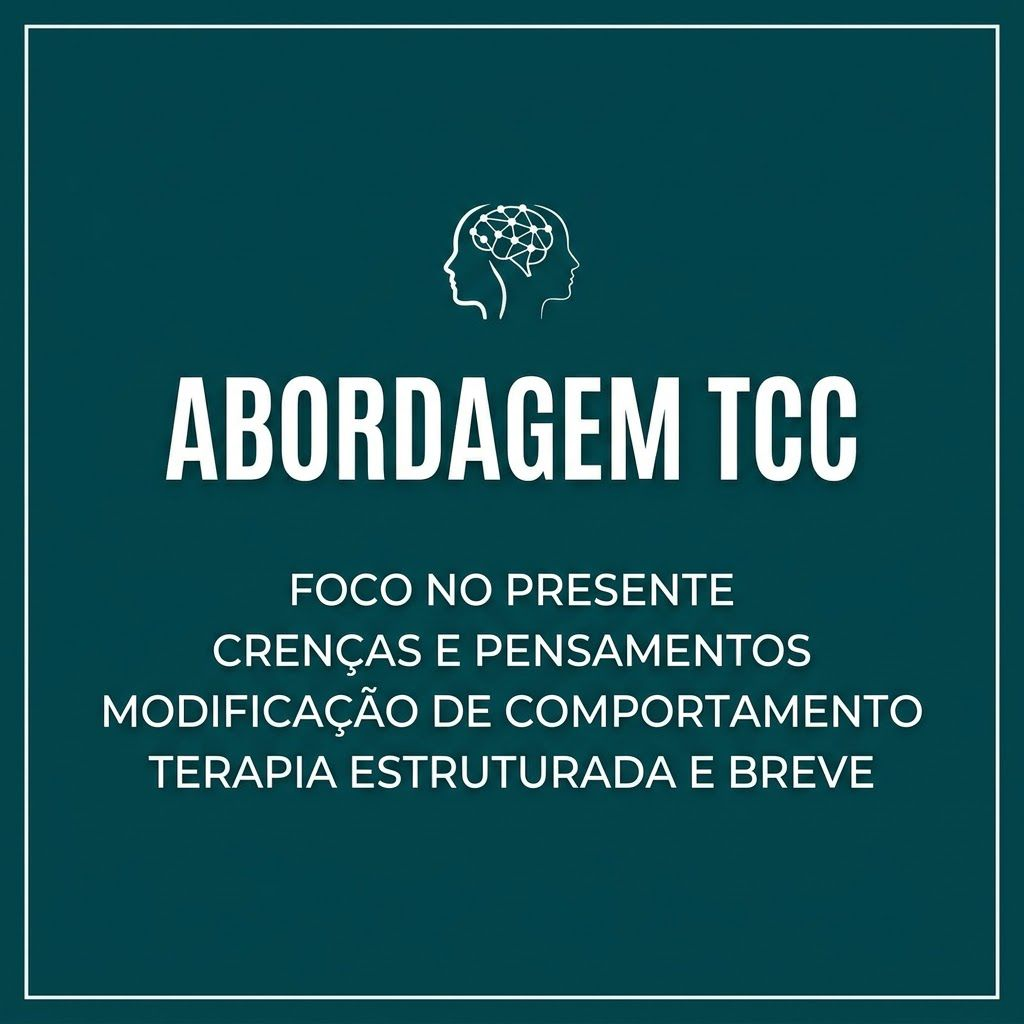
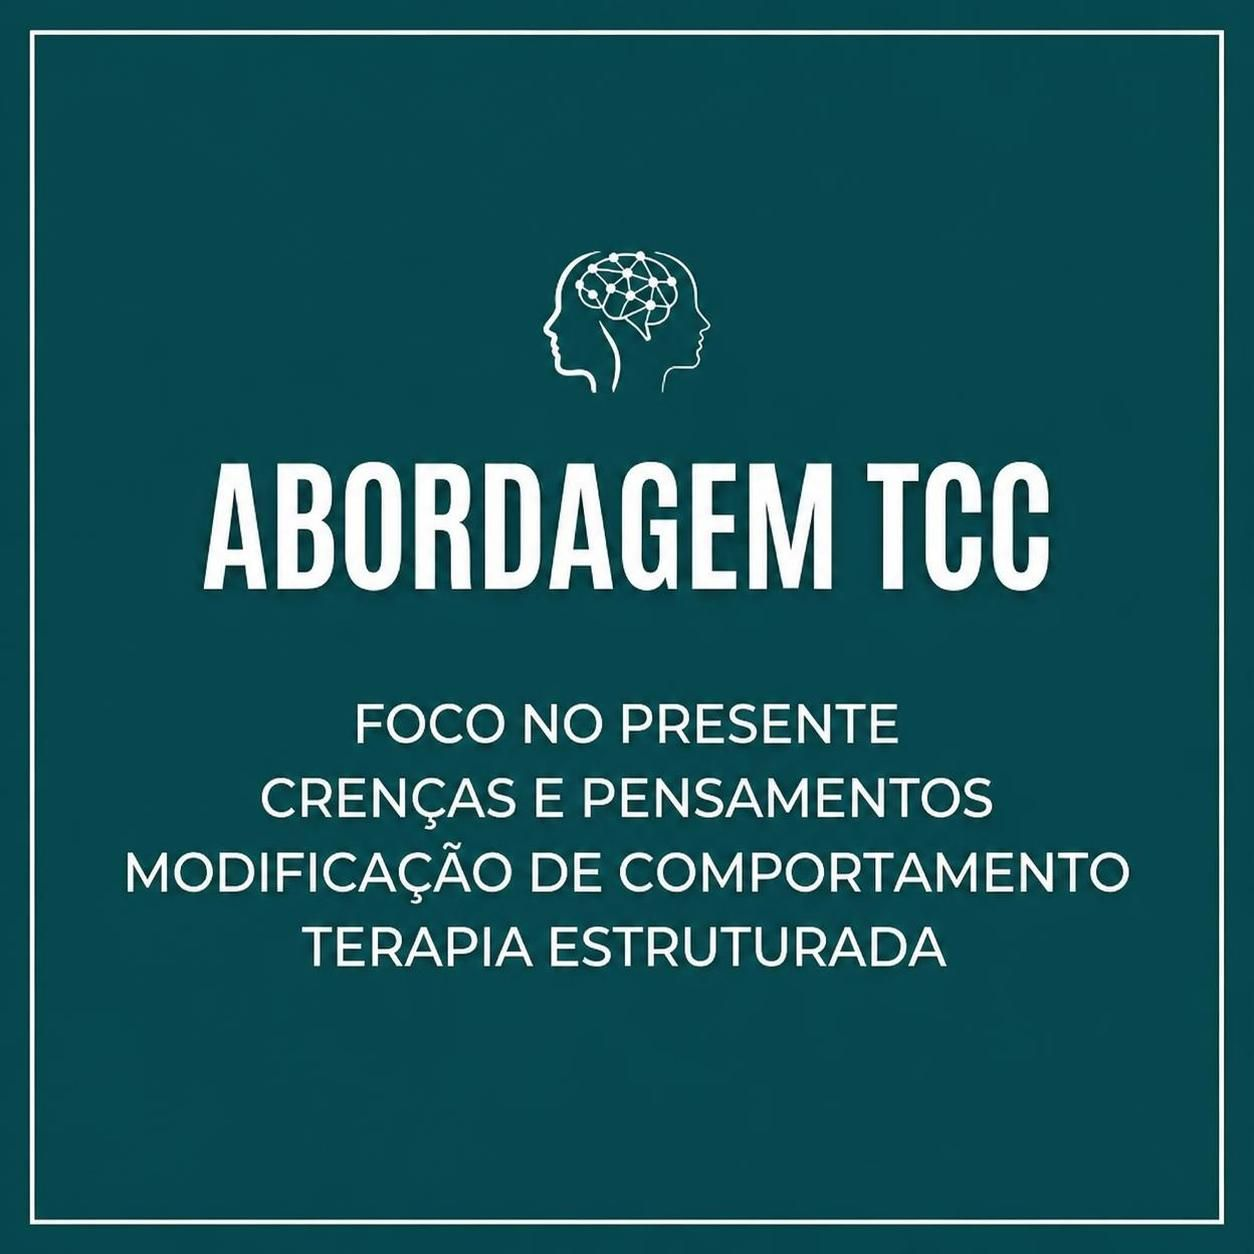
Add files via upload

diff --git a/index.html b/index.html
@@ -58,7 +58,7 @@
     <div class="container hero-container">
       <div class="hero-image">
         <div class="hero-image-wrapper">
-          <img src="sobremim.jpg" alt="Jenny Freitas" loading="eager">
+          <img src="sobremim.jpeg" alt="Jenny Freitas" loading="eager">
           <div class="hero-image-accent"></div>
         </div>
       </div>
@@ -546,7 +546,7 @@
             <svg class="faq-icon" width="20" height="20" viewBox="0 0 24 24" fill="none" stroke="currentColor" stroke-width="2"><line x1="12" y1="5" x2="12" y2="19"/><line x1="5" y1="12" x2="19" y2="12"/></svg>
           </button>
           <div class="faq-answer">
-            <p>Minha abordagem é baseada na Psicanálise, que busca compreender os processos inconscientes, conflitos internos e como eles se manifestam no dia a dia, nos relacionamentos e nas emoções.</p>
+            <p>Minha abordagem é a Terapia Cognitivo-Comportamental (TCC), que trabalha a identificação e modificação de pensamentos e comportamentos que geram sofrimento, promovendo mudanças práticas e duradouras no dia a dia.</p>
           </div>
         </div>
         <div class="faq-item" data-animate>
